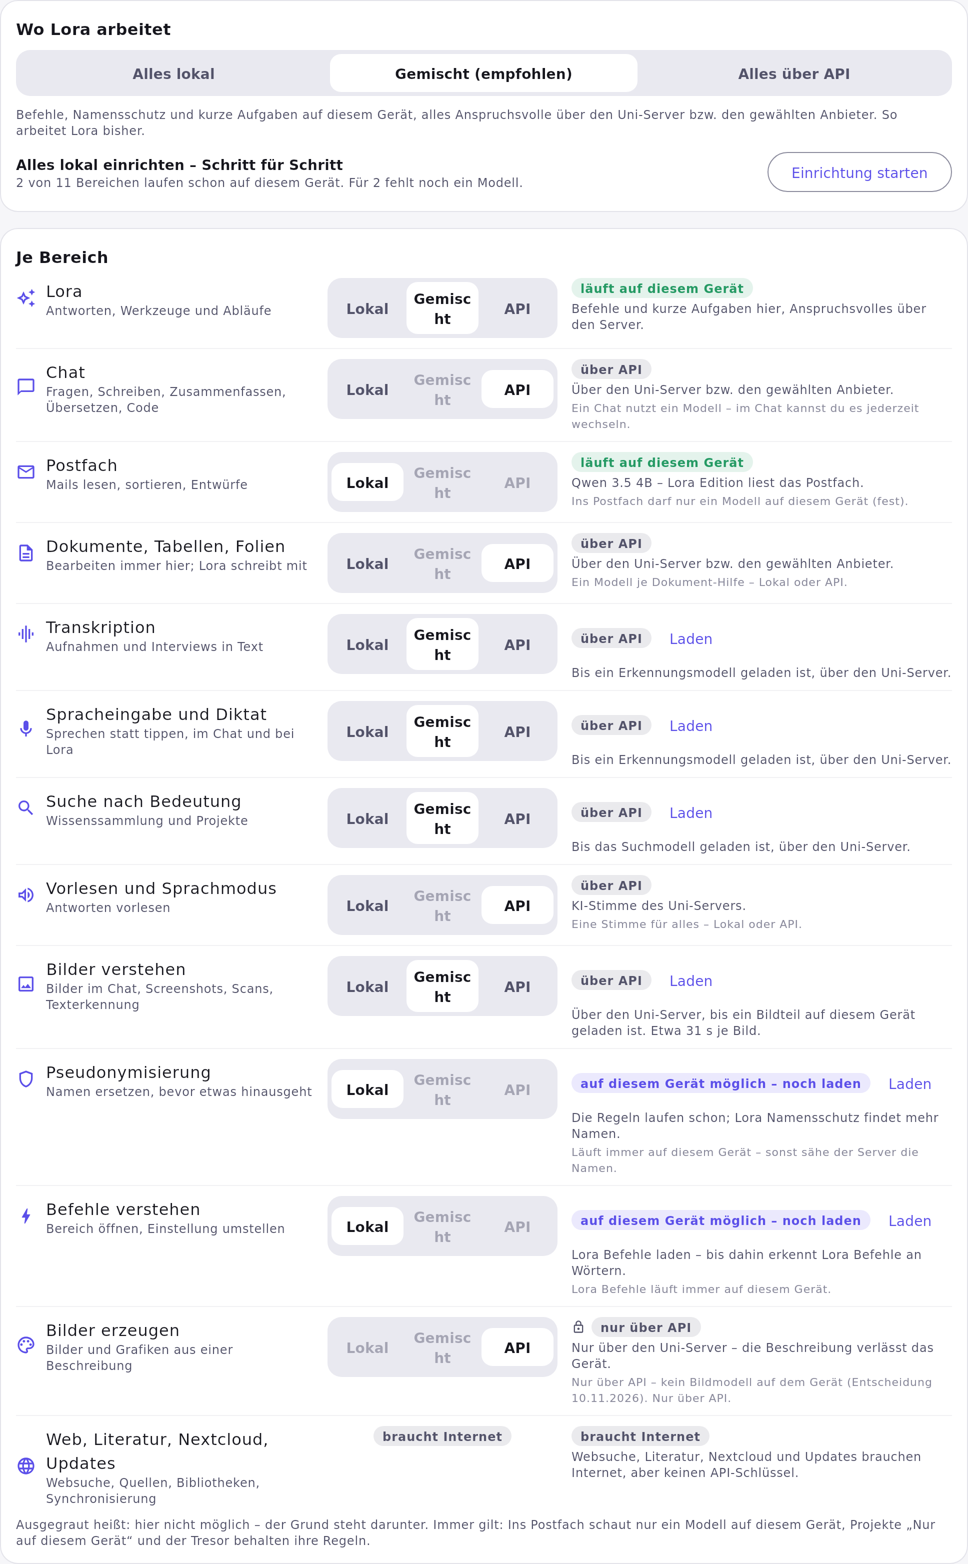
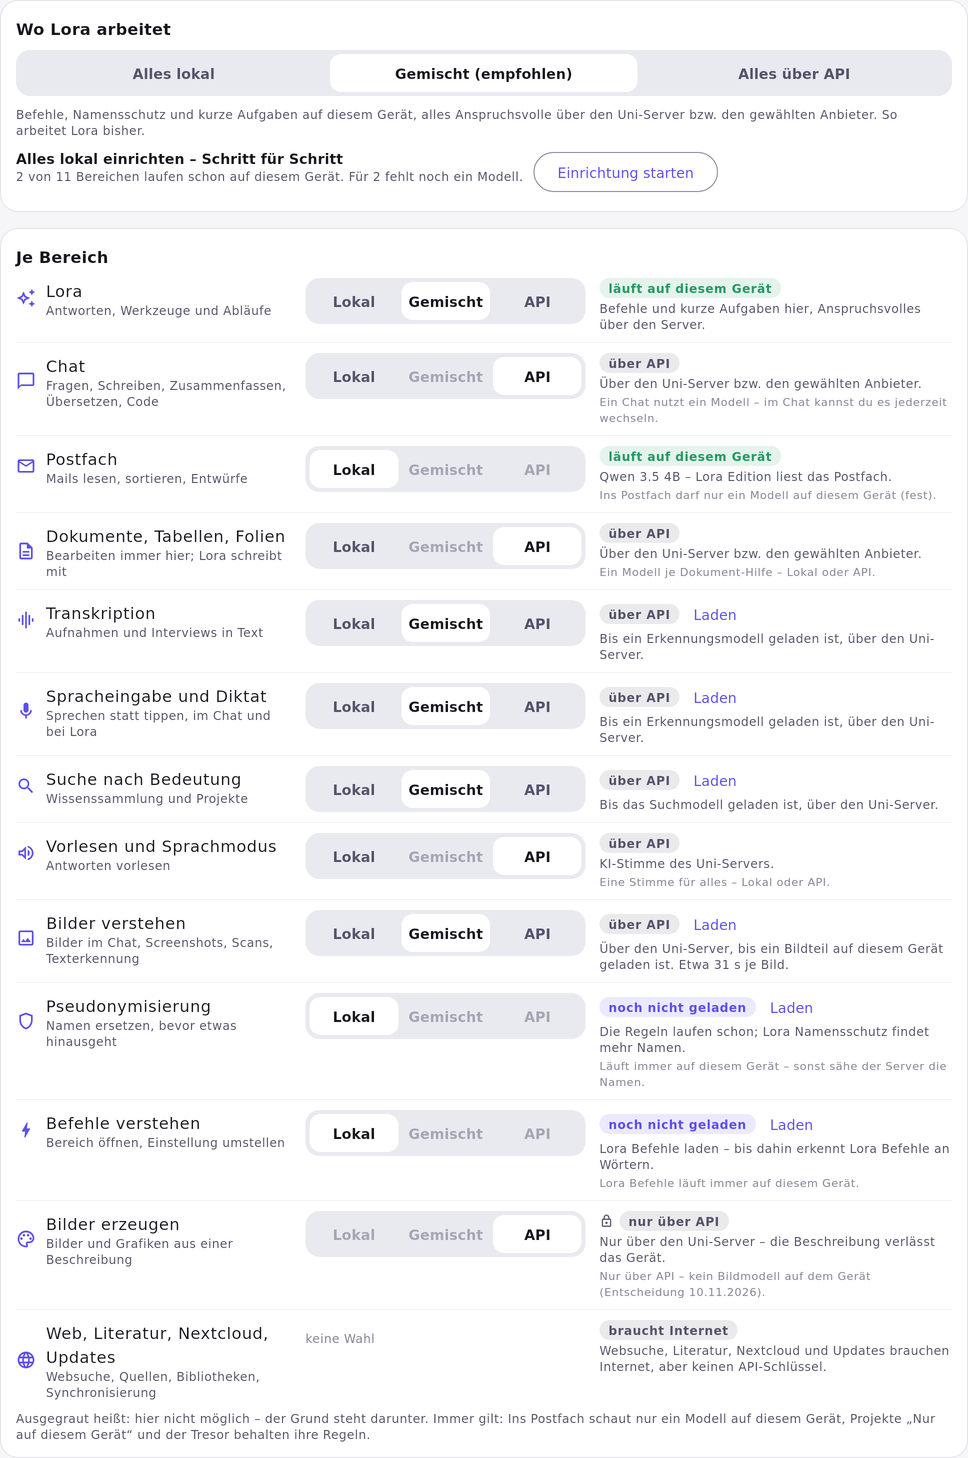
AP-112: englische Texte, Einrichtung auf Loras Karte, ruhigere Status-Zeile
- 148 englische Texte für „Wo Lora arbeitet“, die Einrichtung, den ersten Start
  ohne Schlüssel und den Rückfall (i18n/en.tsv)
- „Alles lokal einrichten“ ist keine Einstellungsseite: als Befehl in Strg+K und
  als eigener Ort area.local-setup auf Loras Karte (statt im Einstellungsindex)
- Status je Bereich: „Laden“ kompakt auf der Zeile des Status
- Bilder neu gerendert (docs/bilder/ap112-*.png, dazu erster Start auf Android)

Claude-Session: https://claude.ai/code/session_01SQ2igXtSahgg76rFT4CuHs

diff --git a/app/src/main/java/io/github/thepytales/llmhub/ui/PlacesScreen.kt b/app/src/main/java/io/github/thepytales/llmhub/ui/PlacesScreen.kt
@@ -1,11 +1,14 @@
 package io.github.thepytales.llmhub.ui
 
 import androidx.compose.foundation.layout.Arrangement
+import androidx.compose.foundation.layout.Box
 import androidx.compose.foundation.layout.BoxWithConstraints
 import androidx.compose.foundation.layout.Column
 import androidx.compose.foundation.layout.Row
 import androidx.compose.foundation.layout.Spacer
+import androidx.compose.foundation.layout.PaddingValues
 import androidx.compose.foundation.layout.fillMaxWidth
+import androidx.compose.foundation.layout.height
 import androidx.compose.foundation.layout.padding
 import androidx.compose.foundation.layout.size
 import androidx.compose.foundation.layout.width
@@ -219,12 +222,18 @@ private fun AreaRow(c: AppContainer, area: Area, wide: Boolean, onNavigate: (Str
     val status: @Composable () -> Unit = {
         Column(verticalArrangement = Arrangement.spacedBy(2.dp)) {
             androidx.compose.foundation.layout.FlowRow(verticalArrangement = Arrangement.Center, horizontalArrangement = Arrangement.spacedBy(6.dp)) {
-                if (st.kind == Places.Kind.API_ONLY) Icon(Icons.Outlined.Lock, contentDescription = null, tint = MaterialTheme.colorScheme.onSurfaceVariant, modifier = Modifier.size(14.dp))
-                StatusPill(tr(st.kind.label), st.kind.tone())
-                if (st.step != null) TextButton(onClick = {
-                    c.settings.update { it.copy(localSetupStep = st.step.ordinal + 1) }
-                    onNavigate("local-setup")
-                }) { Text(tr("Laden")) }
+                val mid = Modifier.align(Alignment.CenterVertically)
+                if (st.kind == Places.Kind.API_ONLY) Icon(Icons.Outlined.Lock, contentDescription = null, tint = MaterialTheme.colorScheme.onSurfaceVariant, modifier = mid.size(14.dp))
+                Box(mid) { StatusPill(tr(st.kind.label), st.kind.tone()) }
+                // Compact, on the line of the status (a normal TextButton is 40 dp high and pushed the reason down).
+                if (st.step != null) TextButton(
+                    onClick = {
+                        c.settings.update { it.copy(localSetupStep = st.step.ordinal + 1) }
+                        onNavigate("local-setup")
+                    },
+                    modifier = mid.height(28.dp),
+                    contentPadding = PaddingValues(horizontal = 8.dp, vertical = 0.dp),
+                ) { Text(tr("Laden"), style = MaterialTheme.typography.labelLarge) }
             }
             Text(st.reason, style = MaterialTheme.typography.bodySmall, color = MaterialTheme.colorScheme.onSurfaceVariant)
             if (why.isNotBlank() && area != Area.WEB) Text(why, style = MaterialTheme.typography.labelSmall, color = MaterialTheme.colorScheme.outline)

diff --git a/app/src/main/java/io/github/thepytales/llmhub/ui/CommandPalette.kt b/app/src/main/java/io/github/thepytales/llmhub/ui/CommandPalette.kt
@@ -66,6 +66,8 @@ val APP_COMMANDS: List<Command> get() = listOf(
     Command(trLater("Modelle"), "models", trLater("Bereiche"), "modell liste"),
     Command(trLater("Verbrauch"), "usage", trLater("Bereiche"), "kosten token bewertungen statistik"),
     Command(trLater("Einstellungen"), "settings", trLater("Einstellungen"), "optionen"),
+    // AP-112: the step-by-step setup is its own page (not a settings section).
+    Command(trLater("Alles lokal einrichten"), "local-setup", trLater("Einstellungen"), "offline einrichten assistent modelle laden ohne schlüssel"),
 ) + io.github.thepytales.llmhub.agent.ChatModes.visible().map { m ->
     // Modes (AP-05) start a new chat in that mode.
     Command(m.name, MODE_ROUTE + m.id, trLater("Modi"), m.keywords + " modus " + m.command.lowercase())
@@ -78,7 +80,6 @@ val SETTINGS_INDEX = listOf(
     Command(trLater("Chat & Werkzeuge"), "settings/chat", trLater("Einstellungen"), "standardmodell werkzeuge freigaben websuche denken"),
     Command(trLater("Werkzeuge"), "settings/tools", trLater("Einstellungen"), "werkzeuge einschalten ausschalten pdf tresor seitenleiste mehr reihenfolge"),
     Command(trLater("Wo Lora arbeitet"), "settings/places", trLater("Einstellungen"), "lokal offline ohne internet ohne server ohne api schlüssel gerät alles lokal gemischt profil einrichtung"),
-    Command(trLater("Alles lokal einrichten"), "local-setup", trLater("Einstellungen"), "offline einrichten assistent modelle laden ohne schlüssel"),
     Command(trLater("Lora"), "settings/lora", trLater("Einstellungen"), "lora maskottchen ausblenden navigator helfer animation hinweise"),
     Command(trLater("Datenschutz"), "settings/privacy", trLater("Einstellungen"), "pseudonymisierung namen eigene begriffe"),
     Command(trLater("Gedächtnis"), "settings/memory", trLater("Einstellungen"), "erinnerungen merken"),

diff --git a/app/src/main/java/io/github/thepytales/llmhub/data/AppMap.kt b/app/src/main/java/io/github/thepytales/llmhub/data/AppMap.kt
@@ -61,6 +61,7 @@ object AppMap {
         AppTarget("area.models", MapKind.AREA, trLater("Modellübersicht"), trLater("Einstellungen › Modellübersicht"), trLater("Alle Modelle des Uni-Servers mit Stärken und Einsatzzweck."), "modelle modell liste welches modell", "models"),
         AppTarget("area.compare", MapKind.AREA, trLater("Modelle vergleichen"), trLater("Einstellungen › Modelle vergleichen"), trLater("Zwei Modelle beantworten dieselbe Frage nebeneinander."), "vergleichen vergleich nebeneinander zwei modelle", "compare"),
         AppTarget("area.local", MapKind.AREA, trLater("Modelle auf diesem Gerät"), trLater("Einstellungen › Modelle auf diesem Gerät"), trLater("Sprachmodelle offline auf dem Gerät – für vertrauliche Daten."), "lokal offline gerät herunterladen lokales modell", "local-models"),
+        AppTarget("area.local-setup", MapKind.AREA, trLater("Alles lokal einrichten"), trLater("Einstellungen › Wo Lora arbeitet › Alles lokal einrichten"), trLater("Einrichtung Schritt für Schritt: Gerät messen, Modelle für Chat, Suche, Sprache und Bilder laden, ohne API-Schlüssel."), "offline einrichten assistent modelle laden ohne schlüssel alles lokal einrichtung", "local-setup"),
         AppTarget("area.usage", MapKind.AREA, trLater("Verbrauch"), trLater("Einstellungen › Verbrauch"), trLater("Anfragen und Tokens pro Tag, Bewertungen."), "verbrauch kosten token statistik anfragen", "usage"),
         AppTarget("area.environments", MapKind.AREA, trLater("Umgebungen"), trLater("Einstellungen › Umgebungen"), trLater("Variablen und Netzwerkzugriff für Agenten."), "umgebung variablen netzwerk agent", "environments"),
     )

diff --git a/docs/ARBEITSPLAN.md b/docs/ARBEITSPLAN.md
@@ -690,7 +690,8 @@ im Stil der App bauen, Änderungswünsche danach). Am Gerät zu messen, siehe un
   *noch nicht geladen* (mit *Laden*, springt in den passenden Schritt) · *nicht auf diesem Gerät* (Grund und Stufe, z. B.
   „Zu wenig Arbeitsspeicher (x GB) – braucht mindestens y GB“, Bilder ab 60 s je Bild) · *braucht Internet* · *nur über
   API* (Schloss) · *über API*. Dieselbe Kennzeichnung (`PlaceNote`) bei Bilder erzeugen, Transkription, Vorlesen und
-  Wissenssammlung. Eintrag in der Einstellungsübersicht, Strg+K und auf Loras Landkarte (`places.profile`).
+  Wissenssammlung. Eintrag in der Einstellungsübersicht, Strg+K und auf Loras Landkarte (`places.profile`; die
+  Einrichtung als eigener Ort `area.local-setup`). Englische Texte in `i18n/en.tsv`.
 - **Einrichtung Schritt für Schritt** (`ui/LocalSetup.kt`, Route `local-setup`): 9 Schritte – Gerät messen (AP-105),
   Zweck (AP-106), Sprachmodell (Empfehlung je Zweck mit Größe, Tempo, „langsam“; andere passende Modelle aufklappbar;
   Laden mit Fortschritt und Abbrechen; *Frag Lora etwas* mit Zeit), Befehle und Namensschutz, Suche, Spracherkennung,
